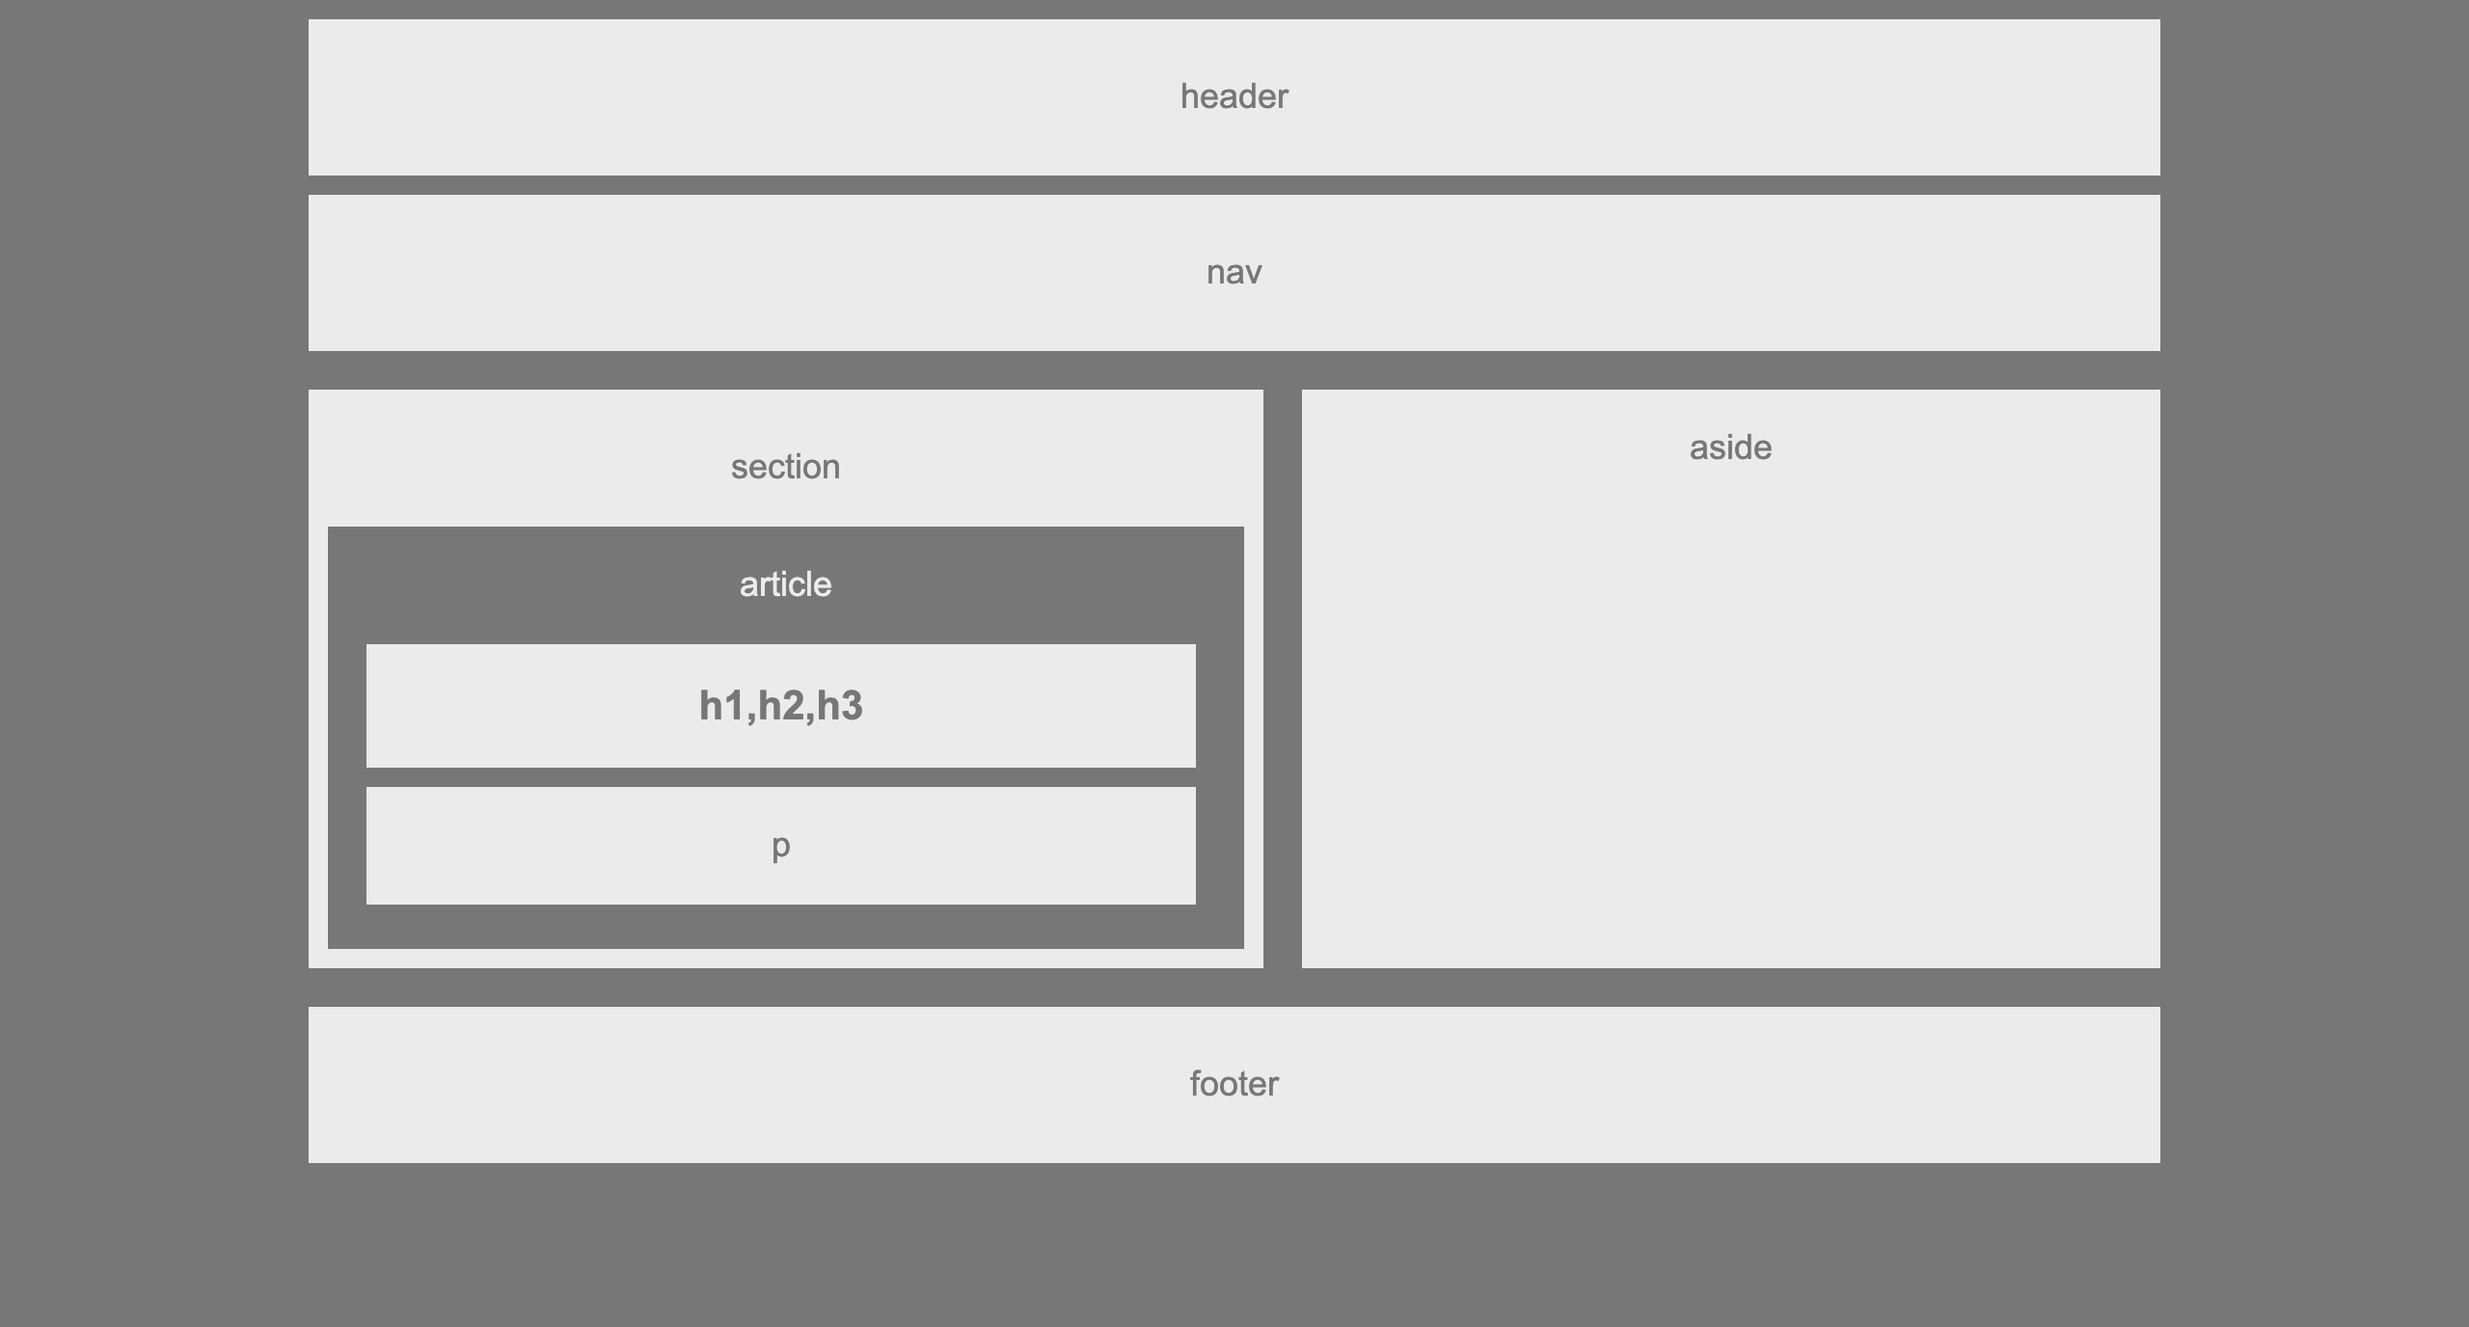
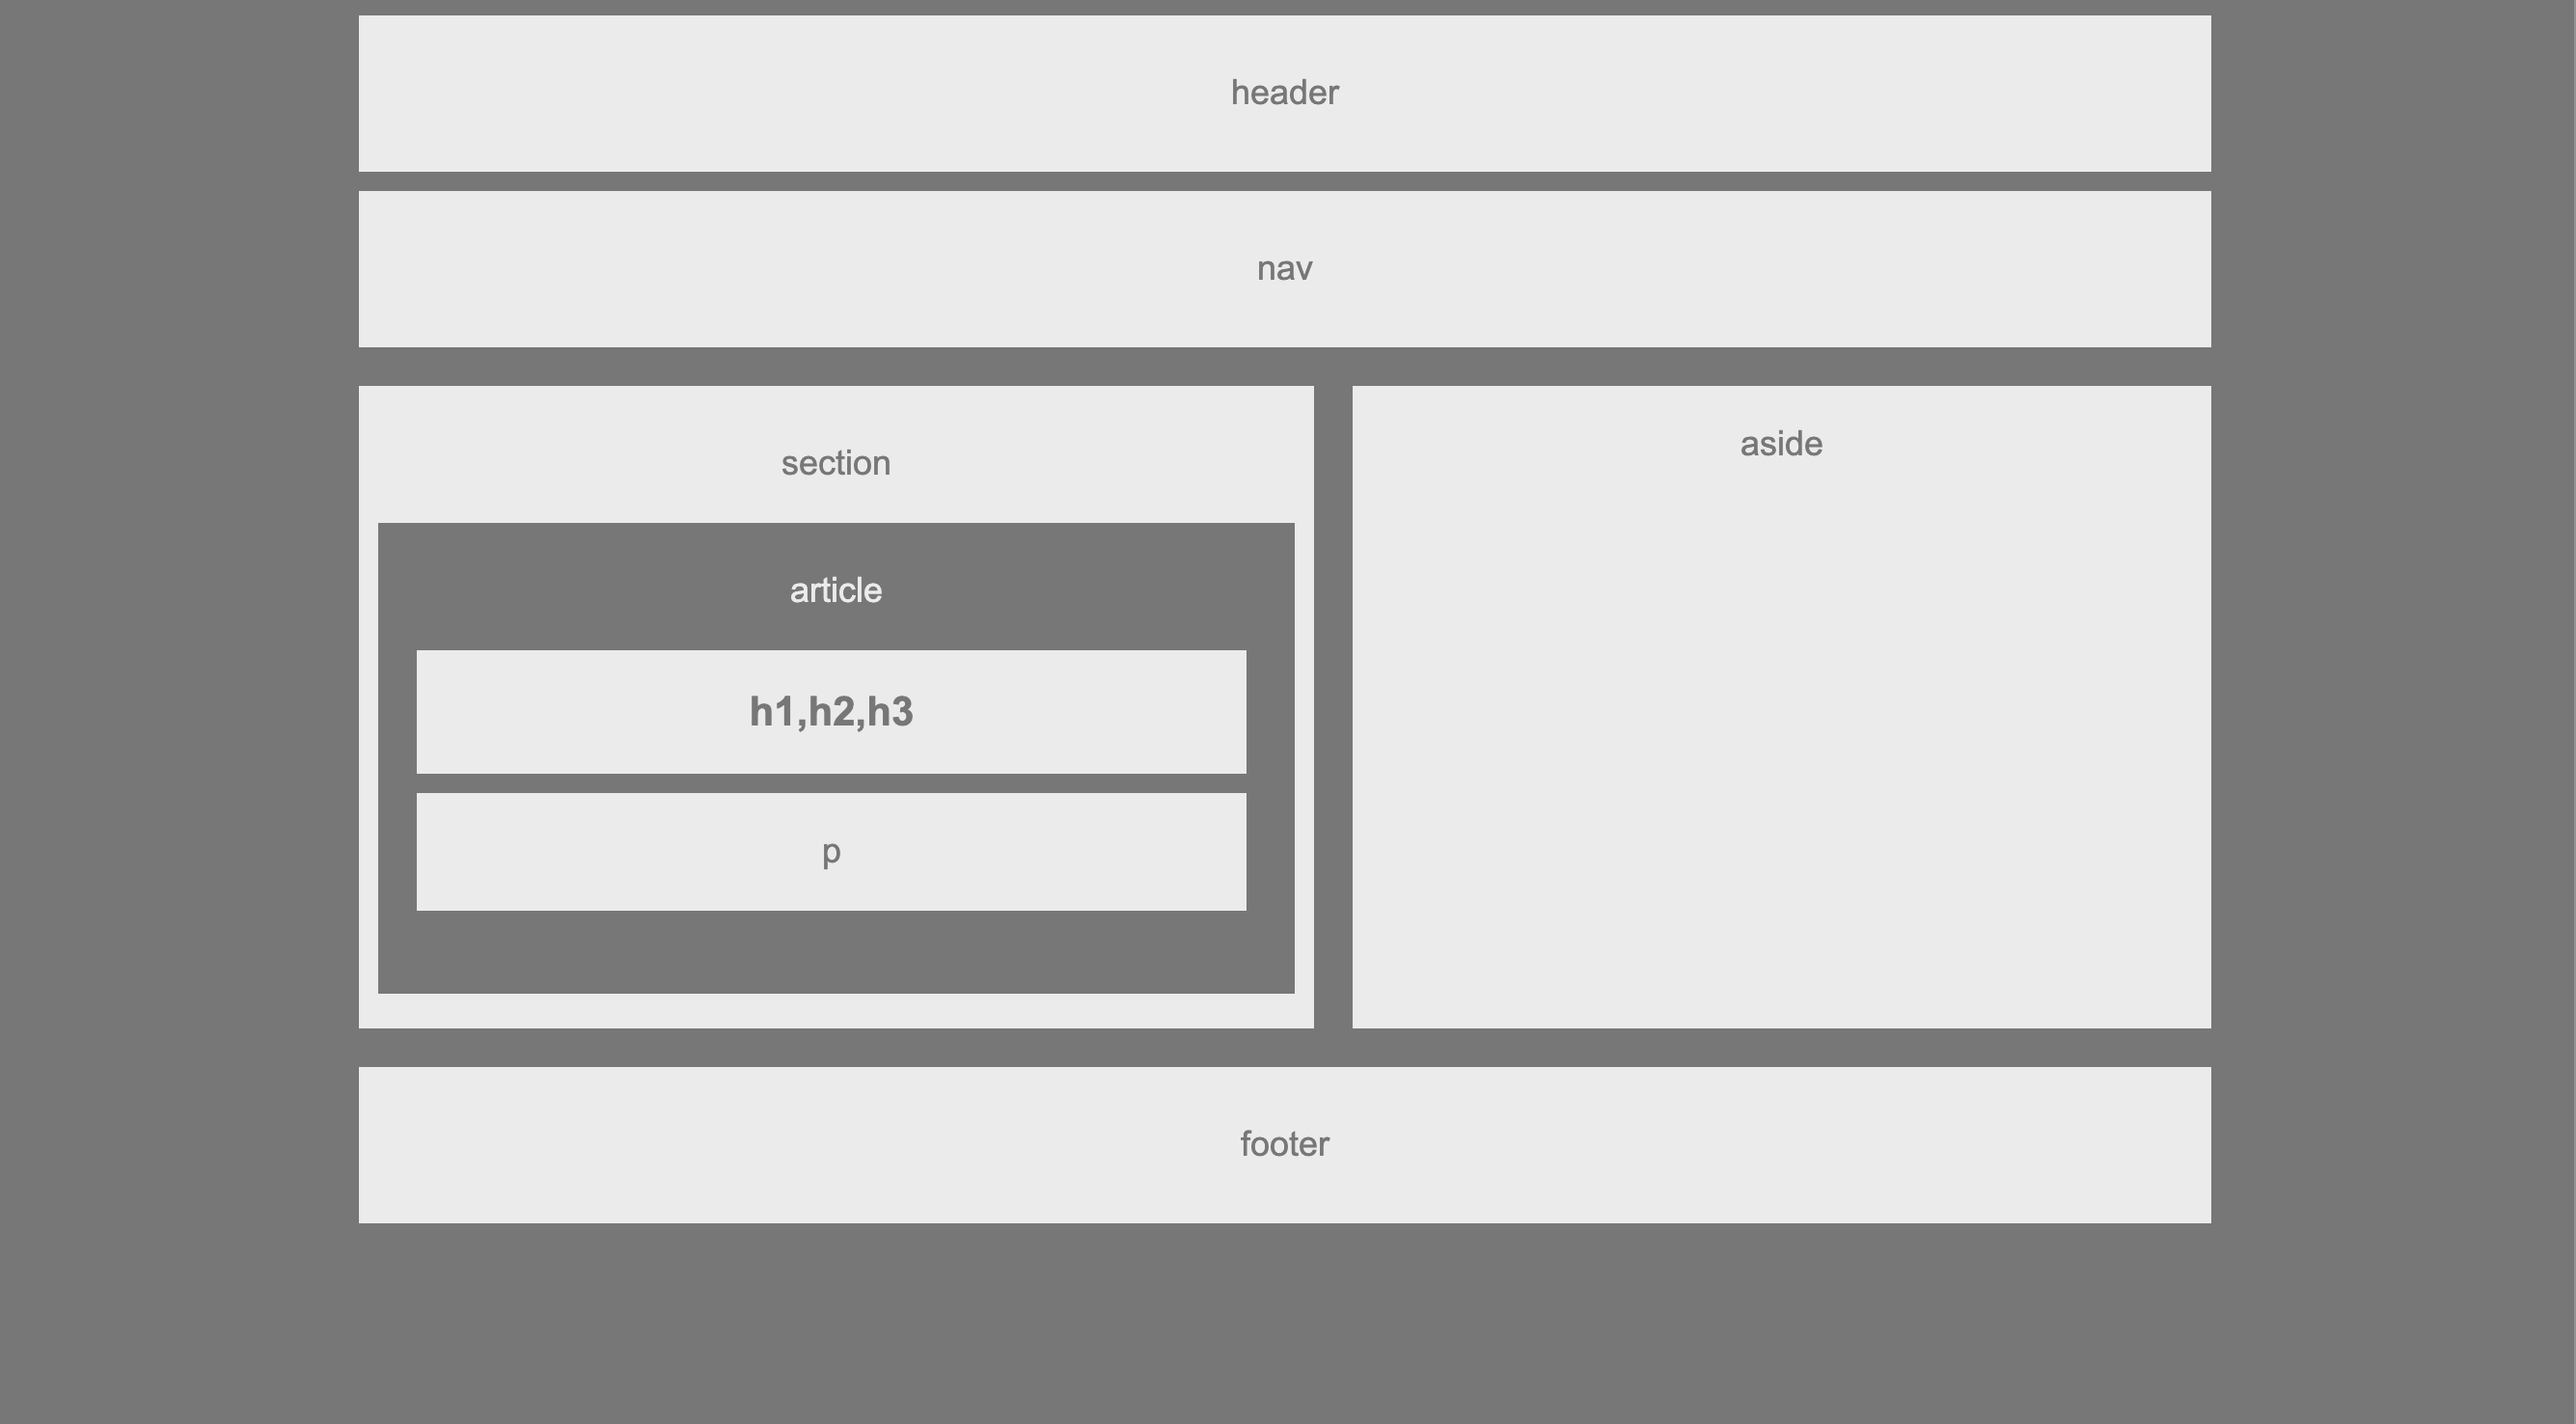
Update readme, fix aside height

Changed region(s): [[0.125, 0.0, 0.875, 0.875]]

diff --git a/assets/css/style.css b/assets/css/style.css
@@ -61,7 +61,7 @@ aside
 {
 	margin: 10px 0px 20px 10px;
 	width: 445px;
-	height: 300px;
+	height: 333px;
 
 }
 footer

diff --git a/README.md b/README.md
@@ -9,11 +9,27 @@ This project builds a web design skeleton using HTML/CSS.
 
 #### Technology Used
 
-
 * HTML
 * CSS
 * Box Model
 
+#### Code Snippet
+This is how The left box section structured in html.
+```JAVASCRIPT
+<section>
+	section
+	<article>
+		article
+		<h1>
+			h1,h2,h3
+		</h1>
+		<p>p</p>
+
+	</article>
+</section>
+```
+
 
 #### Author
-      Chloe Zhou
+Chloe Zhou
+
